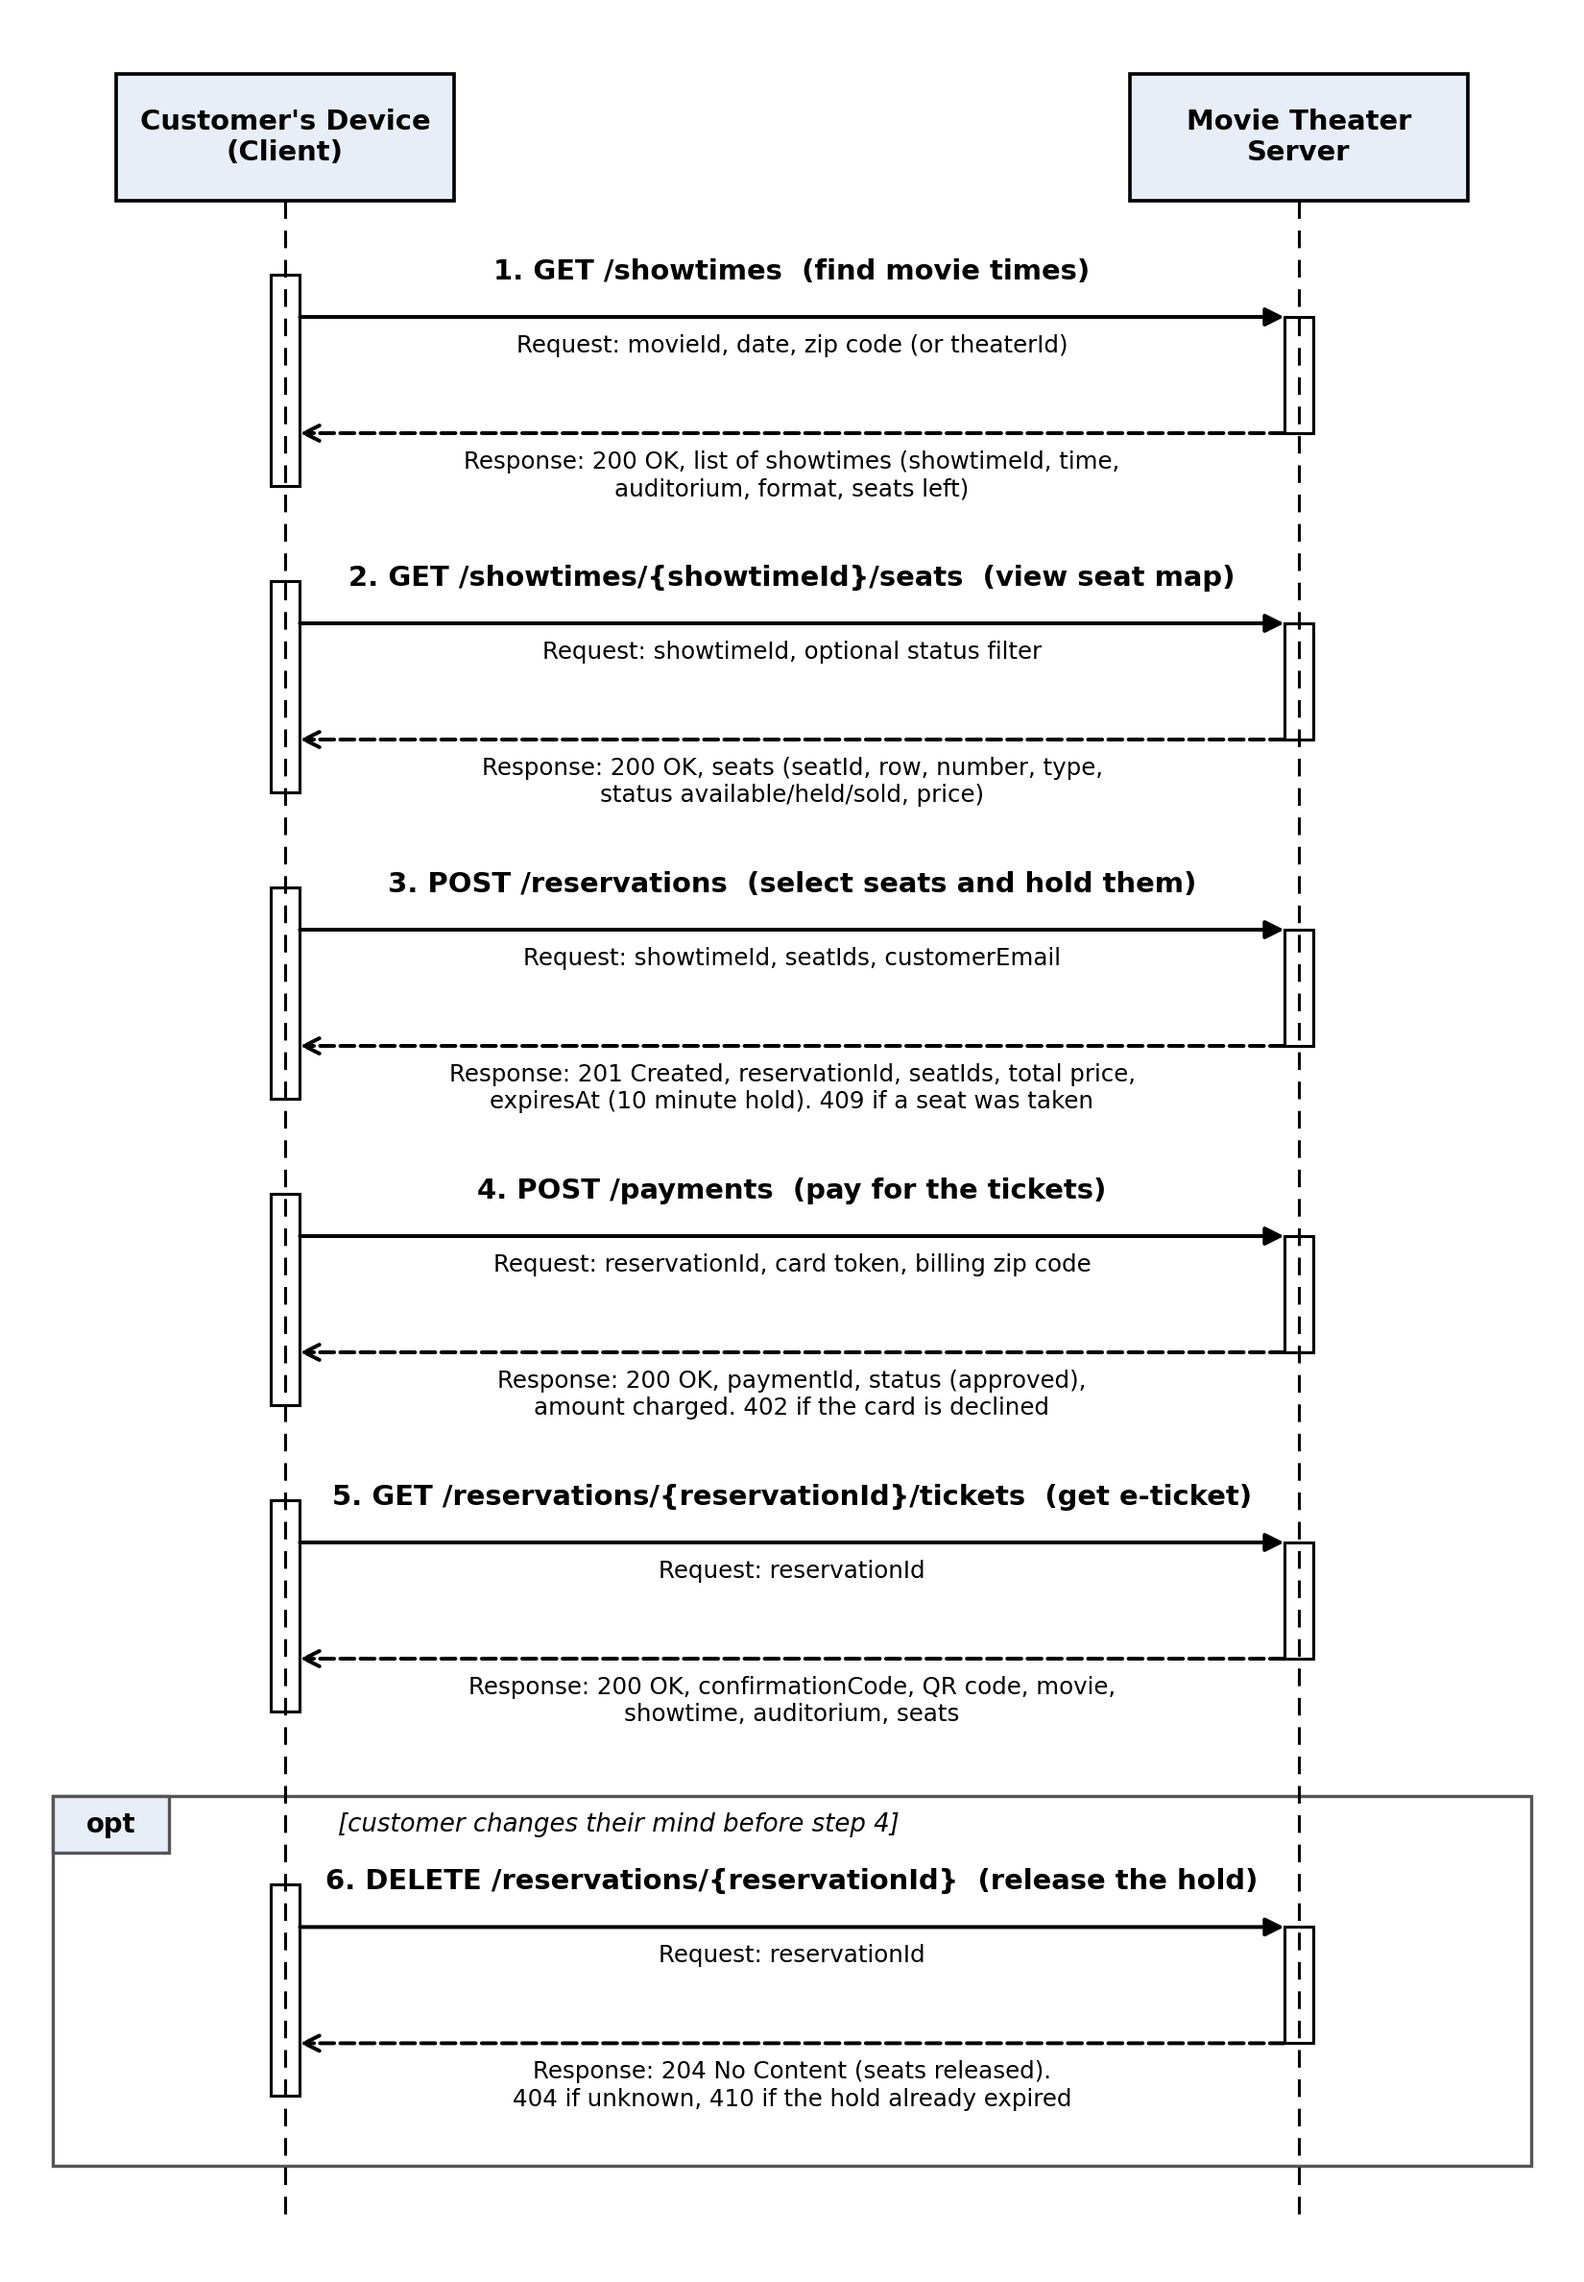
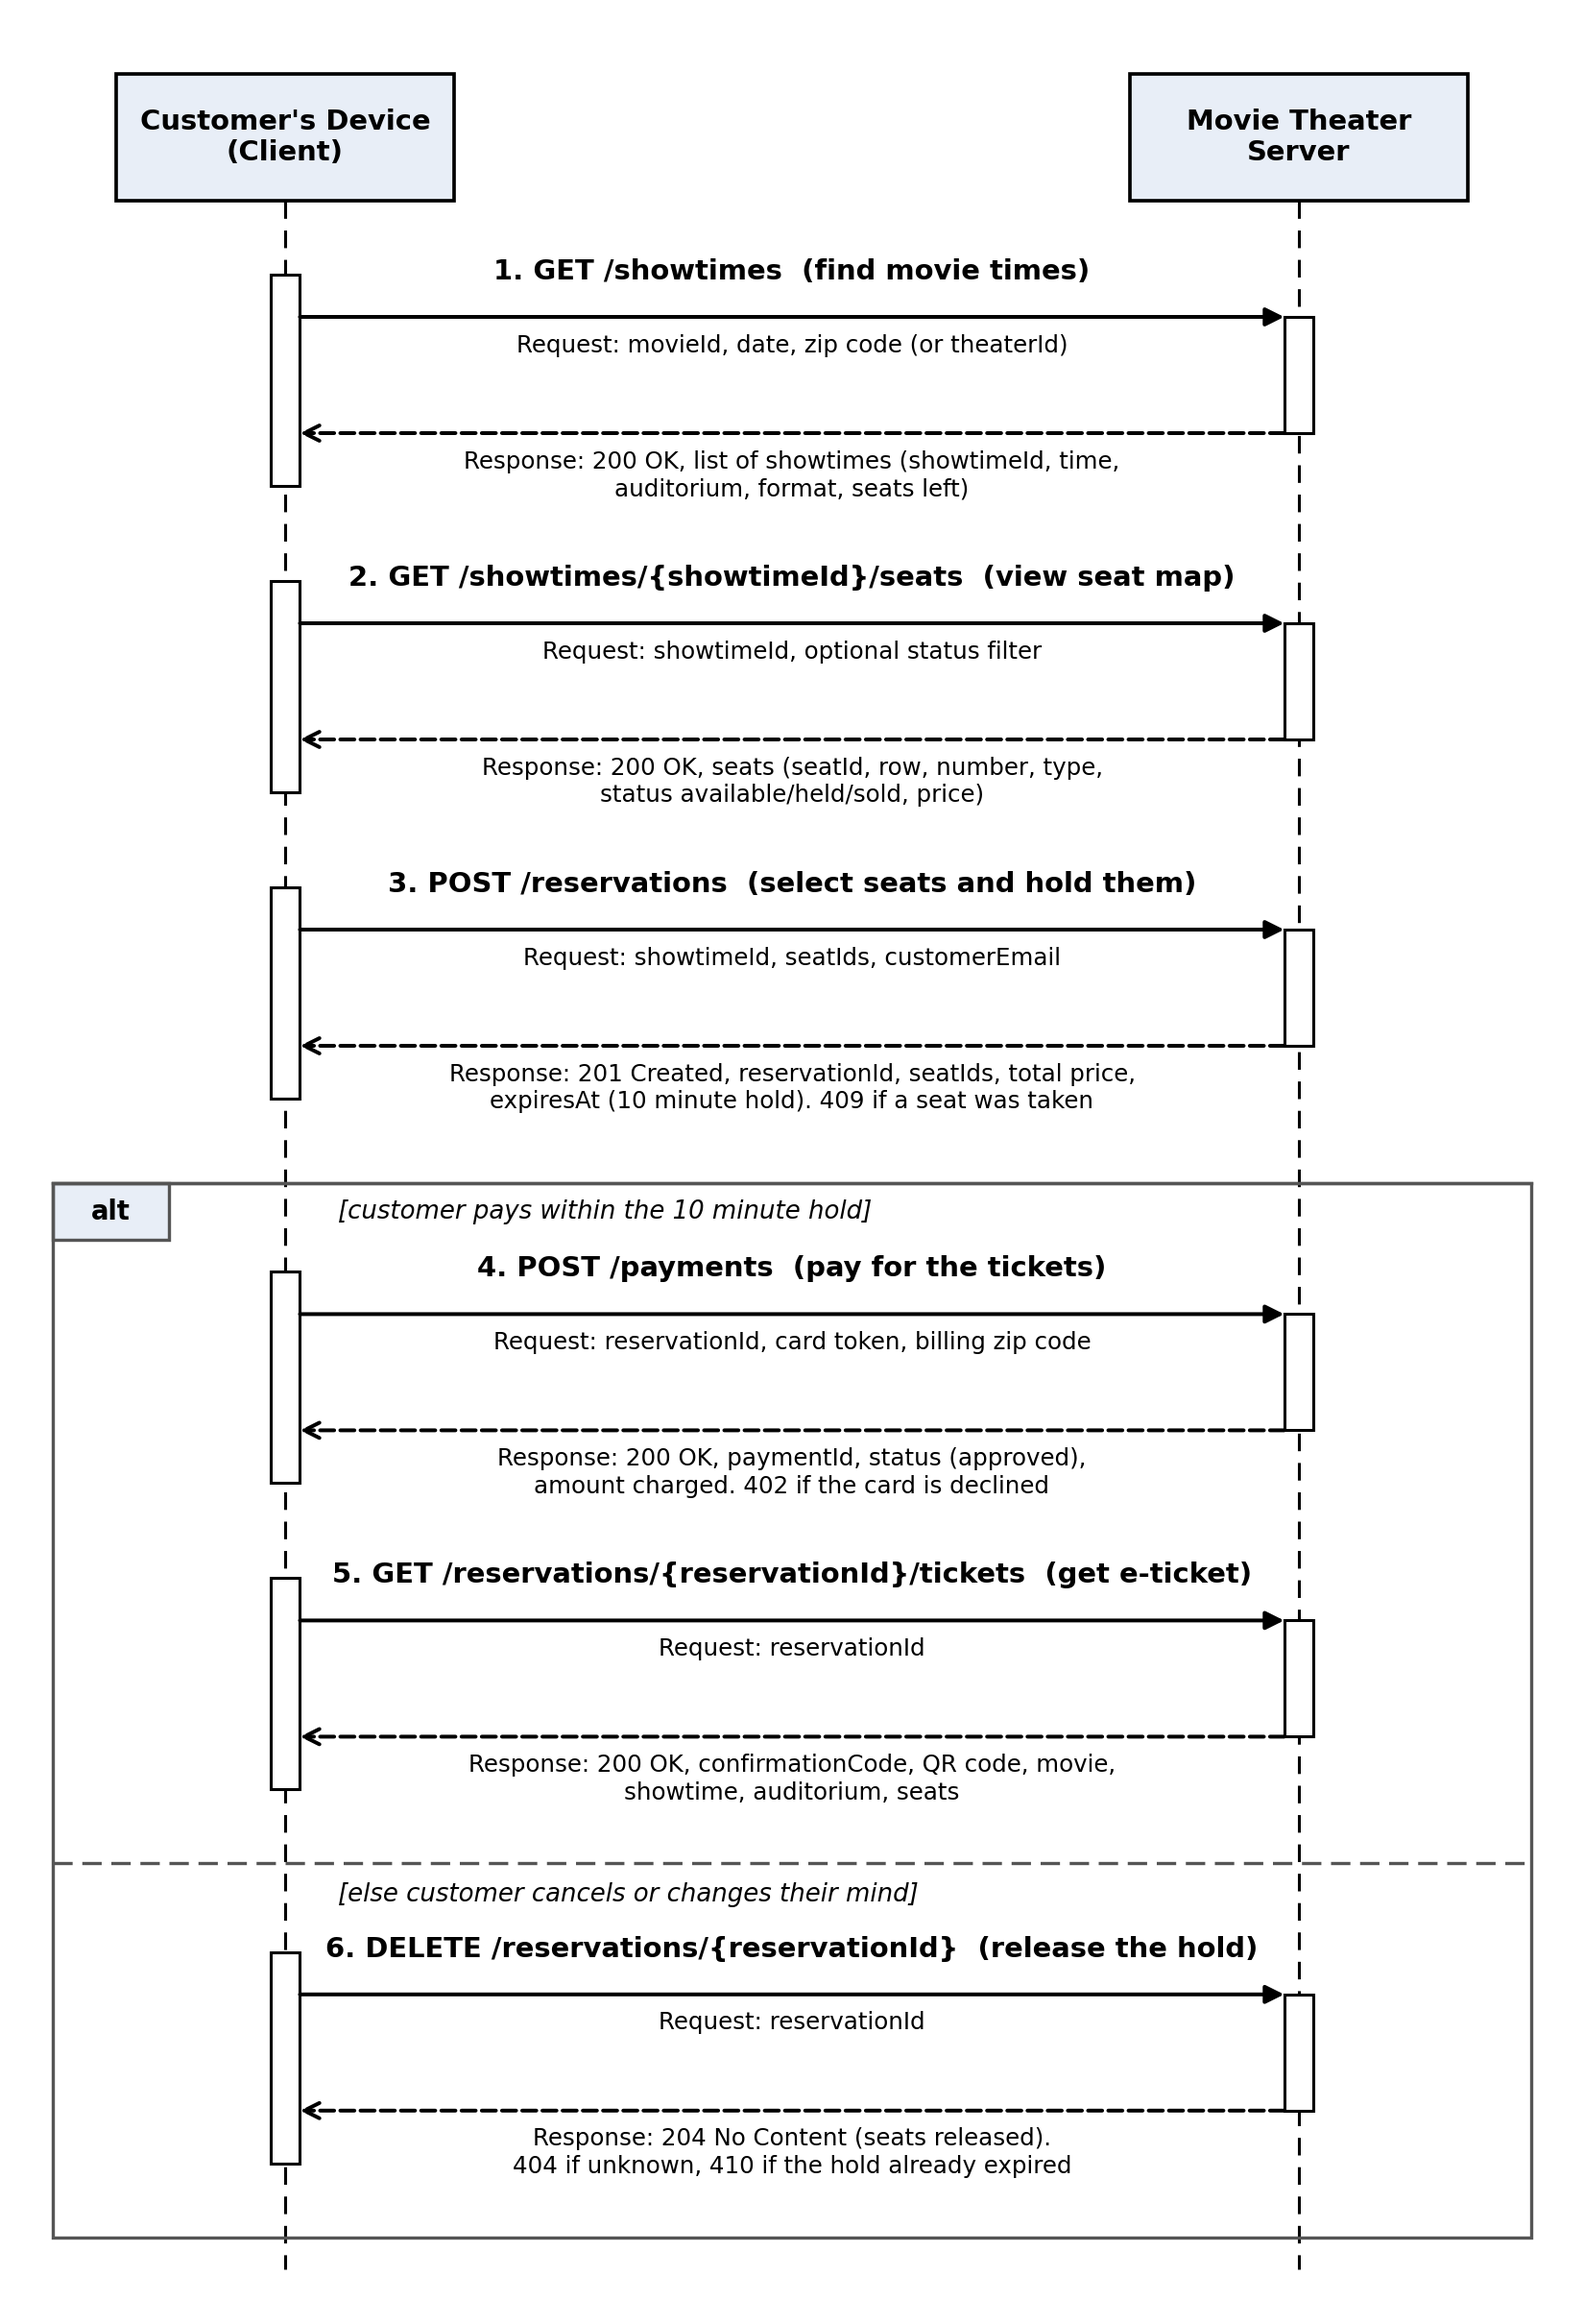
Add diagram script, fix alt frame ordering in sequence diagram

diff --git a/make_diagram.py b/make_diagram.py
@@ -1,0 +1,100 @@
+"""Draws sequence-diagram.png, the UML sequence diagram for buying movie tickets online.
+
+Run from this folder:  python3 make_diagram.py
+Needs matplotlib. Every shape is placed by hand, so the diagram can be edited by
+changing the text or the trip() calls at the bottom.
+"""
+from pathlib import Path
+
+import matplotlib
+
+matplotlib.use("Agg")
+import matplotlib.pyplot as plt
+from matplotlib.patches import FancyArrowPatch, Rectangle
+
+W, H = 7.5, 11.0
+CX, SX = 1.35, 6.15  # x position of the client and server lifelines
+STEP = 1.45  # vertical space for one request/response round trip
+
+fig = plt.figure(figsize=(W, H))
+ax = fig.add_axes([0, 0, 1, 1])
+ax.set_xlim(0, W)
+ax.set_ylim(0, H)
+ax.axis("off")
+
+
+def arrow(y, x0, x1, dashed=False):
+    ax.add_patch(FancyArrowPatch(
+        (x0, y), (x1, y), arrowstyle="->" if dashed else "-|>", mutation_scale=13,
+        lw=1.3, color="black", ls="--" if dashed else "-", shrinkA=0, shrinkB=0))
+
+
+def trip(y, n, title, req, resp):
+    """One round trip: solid request arrow to the server, dashed response back."""
+    ax.add_patch(Rectangle((CX - 0.07, y - 1.0), 0.14, 1.0, fc="white", ec="black", lw=1))
+    ax.add_patch(Rectangle((SX - 0.07, y - 0.75), 0.14, 0.55, fc="white", ec="black", lw=1))
+    arrow(y - 0.2, CX + 0.07, SX - 0.07)
+    arrow(y - 0.75, SX - 0.07, CX + 0.07, dashed=True)
+    mid = (CX + SX) / 2
+    ax.text(mid, y - 0.05, f"{n}. {title}", ha="center", va="bottom", fontsize=9.5, fontweight="bold")
+    ax.text(mid, y - 0.28, req, ha="center", va="top", fontsize=8, linespacing=1.25)
+    ax.text(mid, y - 0.83, resp, ha="center", va="top", fontsize=8, linespacing=1.25)
+
+
+def frame_top(y, kind, condition):
+    """Top edge of an alt frame: operator tab plus the first guard condition."""
+    ax.plot([0.25, W - 0.25], [y, y], color="#555", lw=1.1)
+    ax.add_patch(Rectangle((0.25, y - 0.27), 0.55, 0.27, fc="#e8eef7", ec="#555", lw=1.1))
+    ax.text(0.525, y - 0.135, kind, ha="center", va="center", fontsize=9, fontweight="bold")
+    ax.text(CX + 0.25, y - 0.135, condition, ha="left", va="center", fontsize=8.5, style="italic")
+
+
+top = H - 0.35
+for x, label in ((CX, "Customer's Device\n(Client)"), (SX, "Movie Theater\nServer")):
+    ax.add_patch(Rectangle((x - 0.8, top - 0.6), 1.6, 0.6, fc="#e8eef7", ec="black", lw=1.2))
+    ax.text(x, top - 0.3, label, ha="center", va="center", fontsize=9.5, fontweight="bold")
+
+y = top - 0.95
+trip(y, 1, "GET /showtimes  (find movie times)",
+     "Request: movieId, date, zip code (or theaterId)",
+     "Response: 200 OK, list of showtimes (showtimeId, time,\nauditorium, format, seats left)")
+y -= STEP
+trip(y, 2, "GET /showtimes/{showtimeId}/seats  (view seat map)",
+     "Request: showtimeId, optional status filter",
+     "Response: 200 OK, seats (seatId, row, number, type,\nstatus available/held/sold, price)")
+y -= STEP
+trip(y, 3, "POST /reservations  (select seats and hold them)",
+     "Request: showtimeId, seatIds, customerEmail",
+     "Response: 201 Created, reservationId, seatIds, total price,\nexpiresAt (10 minute hold). 409 if a seat was taken")
+y -= STEP
+
+# alt frame: the customer either pays (steps 4 and 5) or cancels (step 6)
+frame_y0 = y + 0.05
+frame_top(frame_y0, "alt", "[customer pays within the 10 minute hold]")
+y = frame_y0 - 0.42
+trip(y, 4, "POST /payments  (pay for the tickets)",
+     "Request: reservationId, card token, billing zip code",
+     "Response: 200 OK, paymentId, status (approved),\namount charged. 402 if the card is declined")
+y -= STEP
+trip(y, 5, "GET /reservations/{reservationId}/tickets  (get e-ticket)",
+     "Request: reservationId",
+     "Response: 200 OK, confirmationCode, QR code, movie,\nshowtime, auditorium, seats")
+y -= STEP
+
+divider = y + 0.1
+ax.plot([0.25, W - 0.25], [divider, divider], color="#555", lw=1.1, ls=(0, (6, 3)))
+ax.text(CX + 0.25, divider - 0.15, "[else customer cancels or changes their mind]",
+        ha="left", va="center", fontsize=8.5, style="italic")
+y = divider - 0.42
+trip(y, 6, "DELETE /reservations/{reservationId}  (release the hold)",
+     "Request: reservationId",
+     "Response: 204 No Content (seats released).\n404 if unknown, 410 if the hold already expired")
+frame_y1 = y - 1.35
+ax.add_patch(Rectangle((0.25, frame_y1), W - 0.5, frame_y0 - frame_y1, fc="none", ec="#555", lw=1.1))
+
+for x in (CX, SX):
+    ax.plot([x, x], [top - 0.6, frame_y1 - 0.15], color="black", lw=1, ls=(0, (6, 4)), zorder=0)
+
+out = Path(__file__).with_name("sequence-diagram.png")
+fig.savefig(out, dpi=220)
+print("wrote", out, "bottom margin", round(frame_y1, 2))

diff --git a/README.md b/README.md
@@ -4,5 +4,6 @@ OpenAPI 3.0 design for the seat reservation step of buying movie tickets online 
 
 - `openapi.yaml`: the API specification (GET seat map, POST reservation, DELETE reservation)
 - `sequence-diagram.png`: UML sequence diagram of the full ticket purchase flow
+- `make_diagram.py`: the script that draws the diagram (`python3 make_diagram.py`, needs matplotlib)
 
 This is a design only. Nothing here is implemented.
